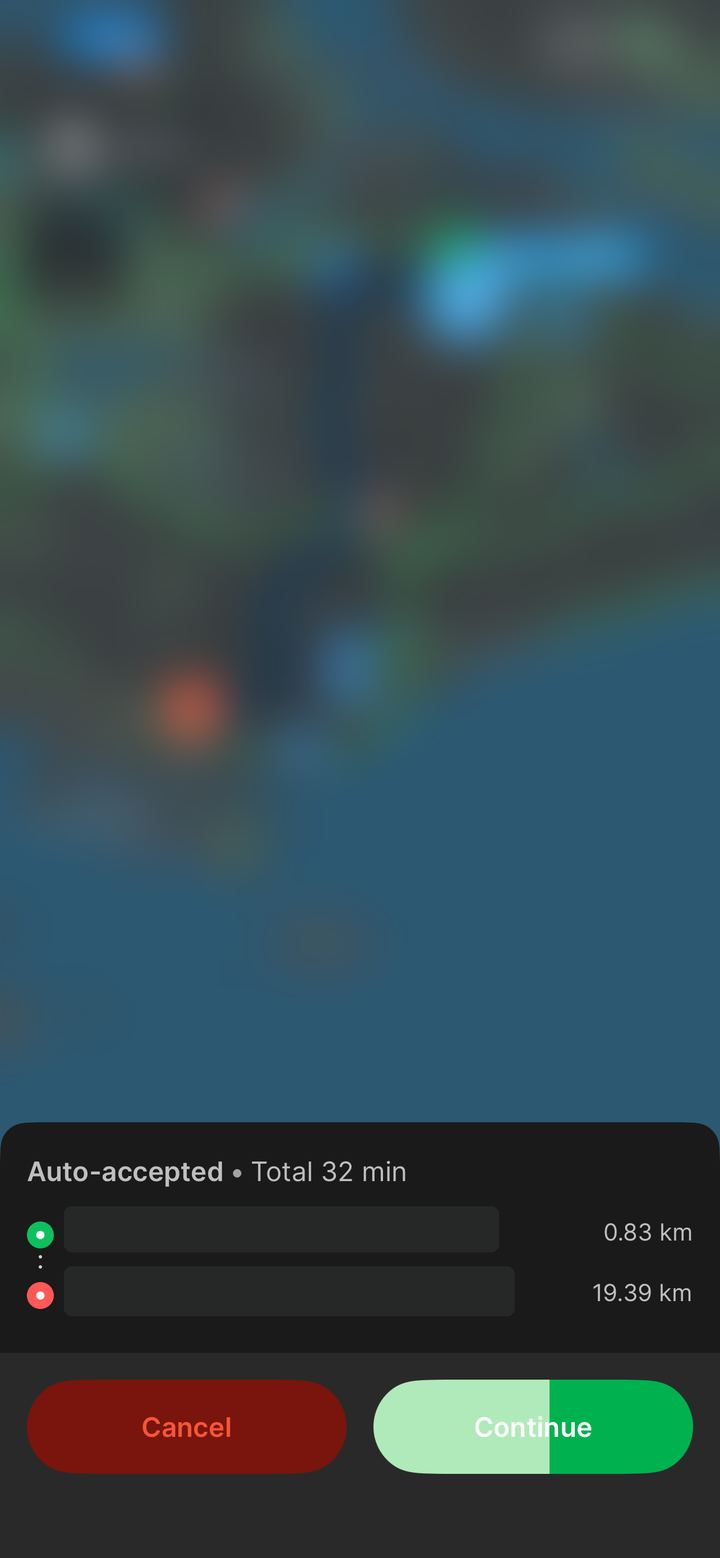
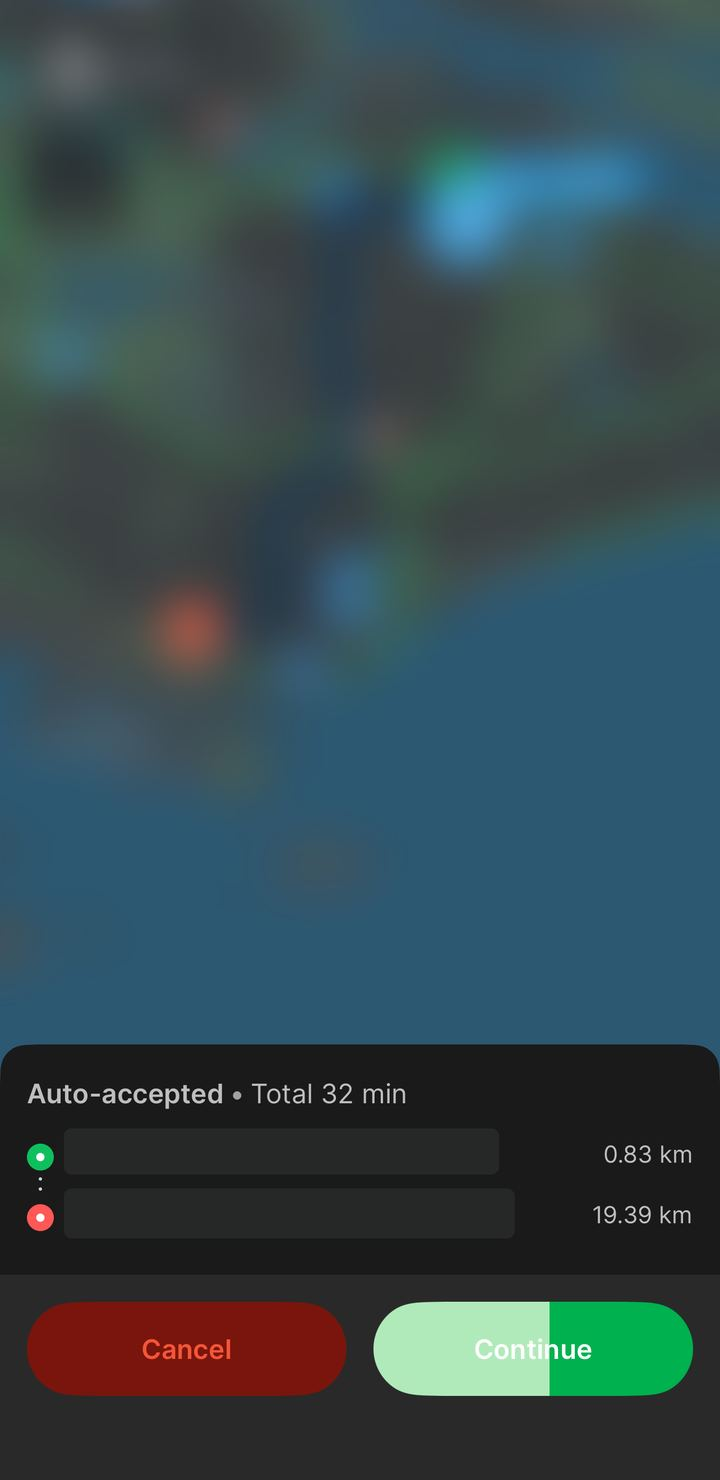
Log guide: iPhone status bar cropped off the screenshots
Claude-Session: https://claude.ai/code/session_01QpAYv7Nm7qkvo1bf8R18kE

diff --git a/public/lab.js b/public/lab.js
@@ -153,9 +153,9 @@ export function syncLab() {
 // photo (x, y in % of the photo): 1 and 2 for the form's steps, A B C for Advanced.
 // Grab screenshots with personal details blacked out and the maps blurred.
 const GUIDE = [
-  { src: 'guide/log-1.jpg', title: 'Job card', note: '1 trip km · B total min · C km to pickup', marks: [{ k: 'B', x: 62, y: 75.2 }, { k: 'C', x: 77.5, y: 79 }, { k: '1', x: 76, y: 82.9 }] },
-  { src: 'guide/log-2.jpg', title: 'On the way to pickup', note: 'A = B − this time (32 − 3 = 29 min)', marks: [{ k: 'A', x: 32.5, y: 85.2 }] },
-  { src: 'guide/log-3.jpg', title: 'Route details', note: '2 you earn · passenger paid', marks: [{ k: '2', x: 50, y: 14.3 }, { k: '2', x: 76.5, y: 71.8 }] },
+  { src: 'guide/log-1.jpg', title: 'Job card', note: '1 trip km · B total min · C km to pickup', marks: [{ k: 'B', x: 62, y: 73.9 }, { k: 'C', x: 77.5, y: 77.9 }, { k: '1', x: 76, y: 82 }] },
+  { src: 'guide/log-2.jpg', title: 'On the way to pickup', note: 'A = B − this time (32 − 3 = 29 min)', marks: [{ k: 'A', x: 32.5, y: 84.4 }] },
+  { src: 'guide/log-3.jpg', title: 'Route details', note: '2 you earn · passenger paid', marks: [{ k: '2', x: 50, y: 9.8 }, { k: '2', x: 76.5, y: 70.3 }] },
 ];
 
 export async function buildLab(root) {

diff --git a/public/styles.css b/public/styles.css
@@ -609,7 +609,7 @@ main { flex: 1 0 auto; width: 100%; padding-bottom: 36px; }
 .ea-shift { display: flex; flex-wrap: wrap; justify-content: space-between; gap: 4px 10px; padding: 8px 12px; border-radius: 10px; border: 1px solid var(--go); background: color-mix(in srgb, var(--go) 10%, var(--surface)); font-size: 14px; }
 .log-shot-img { cursor: zoom-in; }
 .shot-big { position: fixed; inset: 0; z-index: 50; background: rgba(0, 0, 0, 0.88); display: grid; place-items: center; align-content: center; gap: 8px; padding: 16px; cursor: zoom-out; }
-.shot-big-in { position: relative; width: min(92vw, calc(80vh * 0.462)); }
+.shot-big-in { position: relative; width: min(92vw, calc(80vh * 0.486)); }
 .shot-big-in img { display: block; width: 100%; height: auto; border-radius: 14px; }
 .shot-big-in .log-n { position: absolute; transform: translate(-50%, -50%); margin: 0; width: 30px; height: 30px; font-size: 15px; box-shadow: 0 0 0 3px #000; }
 .shot-big .note { color: #ddd; text-align: center; max-width: 92vw; }
